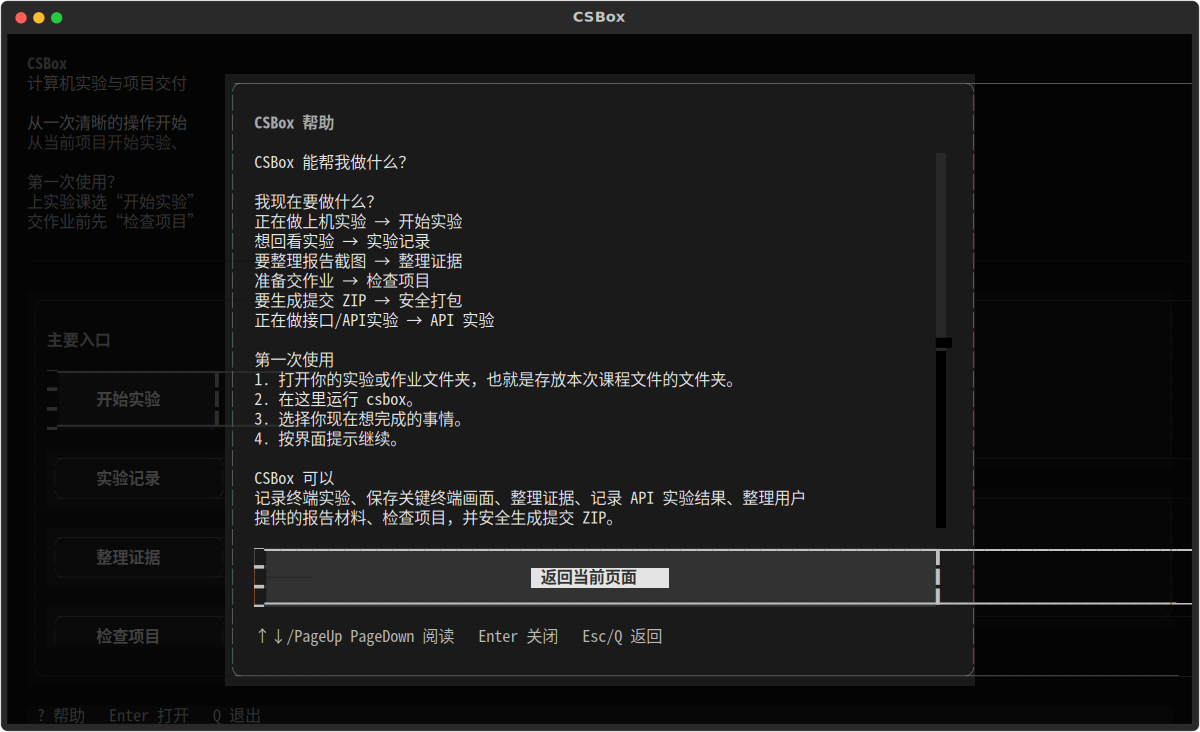
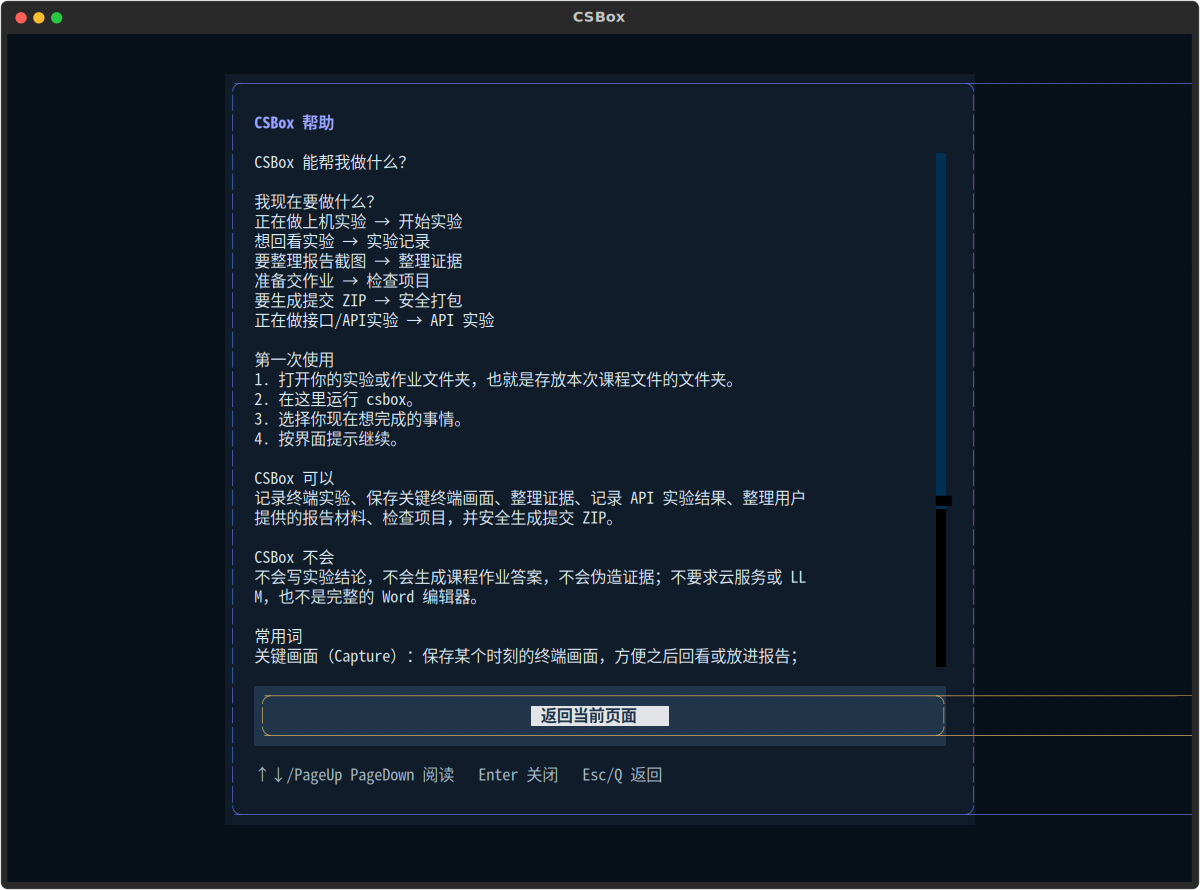
publish: fix: polish TUI help and README screenshots

diff --git a/docs/tests/tooling/generate_readme_screenshots.py b/docs/tests/tooling/generate_readme_screenshots.py
@@ -8,7 +8,9 @@ from __future__ import annotations
 
 import asyncio
 import json
+import os
 import tempfile
+from contextlib import contextmanager
 from dataclasses import replace
 from datetime import UTC, datetime
 from pathlib import Path
@@ -25,6 +27,22 @@ from csbox.tui.screens.review import ReviewController
 
 ROOT = Path(__file__).resolve().parents[3]
 OUTPUT = ROOT / "docs" / "assets" / "readme"
+HOME_SIZE = (120, 43)
+REVIEW_SIZE = (120, 35)
+
+
+@contextmanager
+def screenshot_color_environment():
+    """Keep terminal-only NO_COLOR settings out of public screenshot assets."""
+
+    previous = os.environ.pop("NO_COLOR", None)
+    try:
+        yield
+    finally:
+        if previous is None:
+            os.environ.pop("NO_COLOR", None)
+        else:
+            os.environ["NO_COLOR"] = previous
 
 
 class DemoHomeDataSource(FakeHomeDataSource):
@@ -49,7 +67,7 @@ def environment() -> EnvironmentSnapshot:
         powershell_7_available=False,
         is_wsl=False,
         terminal_columns=120,
-        terminal_rows=35,
+        terminal_rows=HOME_SIZE[1],
     )
 
 
@@ -60,7 +78,17 @@ def make_review_session(root: Path) -> SessionPaths:
         "\n".join(
             [
                 json.dumps({"version": 3, "term": {"cols": 48, "rows": 8}}),
-                json.dumps([0.2, "o", "课程项目实验\r\n$ python check.py\r\nPASS: 3 checks\r\n"]),
+                json.dumps(
+                    [
+                        0.2,
+                        "o",
+                        "课程项目实验\r\n"
+                        "$ python check.py\r\n"
+                        "checking files...\r\n"
+                        "checking captures...\r\n"
+                        "PASS: 3 checks\r\n",
+                    ]
+                ),
                 json.dumps([0.8, "o", "$ echo 关键画面已保存\r\n关键画面已保存\r\n"]),
                 json.dumps([0.5, "o", "$ exit\r\n"]),
                 json.dumps([0.5, "x", "0"]),
@@ -83,7 +111,7 @@ def make_review_session(root: Path) -> SessionPaths:
                 "initialRows": 8,
                 "initialColumns": 48,
                 "cwd": "/tmp/csbox-readme-demo/课程项目",
-                "csboxVersion": "0.5.0rc1",
+                "csboxVersion": "0.5.1",
             }
         ),
         encoding="utf-8",
@@ -149,14 +177,17 @@ def write_png(app: CSBoxApp | ReviewApp, destination: Path) -> None:
 async def render() -> None:
     OUTPUT.mkdir(parents=True, exist_ok=True)
     locale = load_locale()
-    with tempfile.TemporaryDirectory(prefix="csbox-readme-demo-") as temporary:
+    with (
+        screenshot_color_environment(),
+        tempfile.TemporaryDirectory(prefix="csbox-readme-demo-") as temporary,
+    ):
         fixture_root = Path(temporary)
         home = CSBoxApp(
             data_source=DemoHomeDataSource(),
             environment=environment(),
             locale=locale,
         )
-        async with home.run_test(size=(120, 35)) as pilot:
+        async with home.run_test(size=HOME_SIZE) as pilot:
             await pilot.pause()
             write_png(home, OUTPUT / "home.png")
             await pilot.press("?")
@@ -167,7 +198,7 @@ async def render() -> None:
             controller=ReviewController.from_session(make_review_session(fixture_root)),
             locale=locale,
         )
-        async with review.run_test(size=(120, 35)) as pilot:
+        async with review.run_test(size=REVIEW_SIZE) as pilot:
             await pilot.pause()
             await pilot.press("right")
             await pilot.pause()

diff --git a/tests/test_installation_ux.py b/tests/test_installation_ux.py
@@ -9,7 +9,7 @@ def test_readme_leads_with_beginner_first_story() -> None:
     readme = (PROJECT_ROOT / "README.md").read_text(encoding="utf-8")
     quick_start = readme[readme.index("## Quick Start") : readme.index("## See the current UI")]
 
-    assert "0.5.0rc1" in readme
+    assert "0.5.1" in readme
     assert "not on PyPI" in readme
     assert "git clone" in readme
     assert (
@@ -62,14 +62,14 @@ def test_both_readmes_keep_the_beginner_boundaries() -> None:
         assert "F12" in readme
         assert "Check" in readme
         assert "Pack" in readme
-        assert "0.5.0rc1" in readme
+        assert "0.5.1" in readme
     assert "不生成结论、答案或课程作业正文" in chinese
 
 
 def test_changelog_leads_with_the_current_v05_surface() -> None:
     changelog = (PROJECT_ROOT / "CHANGELOG.md").read_text(encoding="utf-8")
 
-    assert changelog.startswith("# Changelog\n\n## 0.5.0rc1")
-    assert "当前 Release Candidate 尚未发布到 PyPI" in changelog
+    assert changelog.startswith("# Changelog\n\n## 0.5.1")
+    assert "This version is not published to PyPI" in changelog
     for surface in ("Lab Evidence", "API Evidence", "Evidence Collection", "Report Handoff"):
         assert surface in changelog

diff --git a/tests/test_readme_screenshots.py b/tests/test_readme_screenshots.py
@@ -1,0 +1,36 @@
+from __future__ import annotations
+
+import importlib.util
+import os
+import sys
+from pathlib import Path
+
+from csbox.locales import load_locale
+from csbox.tui.app import CSBoxApp
+
+_TOOL_PATH = (
+    Path(__file__).resolve().parents[1]
+    / "docs"
+    / "tests"
+    / "tooling"
+    / "generate_readme_screenshots.py"
+)
+_SPEC = importlib.util.spec_from_file_location("csbox_readme_screenshots", _TOOL_PATH)
+assert _SPEC is not None and _SPEC.loader is not None
+_TOOL = importlib.util.module_from_spec(_SPEC)
+sys.modules[_SPEC.name] = _TOOL
+_SPEC.loader.exec_module(_TOOL)
+
+
+def test_readme_screenshot_color_environment_overrides_no_color(monkeypatch) -> None:
+    monkeypatch.setenv("NO_COLOR", "1")
+
+    with _TOOL.screenshot_color_environment():
+        app = CSBoxApp(
+            data_source=_TOOL.DemoHomeDataSource(),
+            environment=_TOOL.environment(),
+            locale=load_locale(),
+        )
+        assert app.no_color is False
+
+    assert os.environ["NO_COLOR"] == "1"

diff --git a/tests/test_tui_help.py b/tests/test_tui_help.py
@@ -188,6 +188,24 @@ async def test_home_question_mark_opens_scrollable_beginner_help_and_restores_fo
 
 
 @pytest.mark.asyncio
+async def test_help_backdrop_hides_underlying_panel_borders() -> None:
+    app = _app()
+
+    async with app.run_test(size=(120, 35)) as pilot:
+        await pilot.pause()
+        await pilot.press("?")
+        await pilot.pause()
+
+        assert app.screen.styles.background.a == 1
+        layout = app.screen._compositor.render_update(
+            full=True,
+            screen_stack=app._background_screens,
+            simplify=False,
+        )
+        assert all("─" not in strip.text[98:118] for strip in layout.strips)
+
+
+@pytest.mark.asyncio
 async def test_f1_is_a_help_alias_and_contextual_help_explains_lab_records() -> None:
     app = _app()
 

diff --git a/tests/test_pack_tui.py b/tests/test_pack_tui.py
@@ -525,7 +525,9 @@ async def test_source_plan_change_does_not_open_overwrite_recovery_loop(tmp_path
         await pilot.pause()
         await pilot.click("#pack-confirm")
         await _wait_until(pilot, lambda: _pack_overwrite_dialog_ready(app))
-        await pilot.click("#pack-overwrite-confirm")
+        overwrite_button = app.screen.query_one("#pack-overwrite-confirm", Button)
+        overwrite_button.focus()
+        await pilot.press("enter")
         await _wait_until(pilot, lambda: bool(calls))
         await _wait_until(pilot, lambda: isinstance(app.screen, PackConfirmationScreen))
 

diff --git a/tests/test_versioning.py b/tests/test_versioning.py
@@ -8,11 +8,11 @@ from csbox.cli.main import app
 
 def test_version_is_single_runtime_source() -> None:
     assert __version__ == version("csbox")
-    assert __version__ == "0.5.0rc1"
+    assert __version__ == "0.5.1"
 
 
 def test_cli_version_prints_runtime_version() -> None:
     result = CliRunner().invoke(app, ["--version"])
 
     assert result.exit_code == 0
-    assert result.stdout.strip() == "0.5.0rc1"
+    assert result.stdout.strip() == "0.5.1"

diff --git a/tests/test_distribution.py b/tests/test_distribution.py
@@ -417,4 +417,4 @@ def test_uv_tool_install_runs_built_wheel_outside_repository(tmp_path: Path) -> 
         text=True,
         encoding="utf-8",
     )
-    assert result.stdout.strip() == "0.5.0rc1"
+    assert result.stdout.strip() == "0.5.1"

diff --git a/src/csbox/__init__.py b/src/csbox/__init__.py
@@ -5,6 +5,6 @@ from importlib.metadata import PackageNotFoundError, version
 try:
     __version__ = version("csbox")
 except PackageNotFoundError:
-    __version__ = "0.5.0rc1"
+    __version__ = "0.5.1"
 
 __all__ = ["__version__"]

diff --git a/README.md b/README.md
@@ -8,9 +8,9 @@ Record terminal work, keep evidence reviewable, and hand in a checked project bu
 
 [English](README.md) · [简体中文](README.zh-CN.md)
 
-[![CI](https://img.shields.io/github/actions/workflow/status/sfwang3/CSBox/ci.yml?branch=main&style=flat-square&label=CI)](https://github.com/sfwang3/CSBox/actions/workflows/ci.yml) [![Python 3.11+](https://img.shields.io/badge/python-3.11%2B-3776AB?style=flat-square&logo=python&logoColor=white)](https://www.python.org/) [![Apache-2.0](https://img.shields.io/badge/license-Apache--2.0-2ea44f?style=flat-square)](LICENSE) [![0.5.0rc1](https://img.shields.io/badge/version-0.5.0rc1-informational?style=flat-square)](CHANGELOG.md)
+[![CI](https://img.shields.io/github/actions/workflow/status/sfwang3/CSBox/ci.yml?branch=main&style=flat-square&label=CI)](https://github.com/sfwang3/CSBox/actions/workflows/ci.yml) [![Python 3.11+](https://img.shields.io/badge/python-3.11%2B-3776AB?style=flat-square&logo=python&logoColor=white)](https://www.python.org/) [![Apache-2.0](https://img.shields.io/badge/license-Apache--2.0-2ea44f?style=flat-square)](LICENSE) [![0.5.1](https://img.shields.io/badge/version-0.5.1-informational?style=flat-square)](CHANGELOG.md)
 
-**0.5.0rc1 · release candidate · not published to PyPI**
+**0.5.1 · not published to PyPI**
 
 </div>
 
@@ -43,19 +43,19 @@ On Home, use <kbd>↑</kbd>/<kbd>↓</kbd> or <kbd>Tab</kbd> to move, press <kbd
 
 ### Installation: what works today
 
-This release candidate is **not on PyPI**. There is no public-index install command yet.
+This release is **not on PyPI**. There is no public-index install command yet.
 
 #### Ordinary users: install a local wheel
 
-If a course staff member or project maintainer gives you a `csbox-0.5.0rc1-py3-none-any.whl` file, install that local file with `uv`:
+If a course staff member or project maintainer gives you a `csbox-0.5.1-py3-none-any.whl` file, install that local file with `uv`:
 
 ```bash
-uv tool install /path/to/csbox-0.5.0rc1-py3-none-any.whl
+uv tool install /path/to/csbox-0.5.1-py3-none-any.whl
 cd path/to/your-course-project
 csbox
 ```
 
-The candidate is not publicly published yet. If you do not have a local wheel or source checkout, there is no ordinary-user install route to copy today.
+This version is not publicly published yet. If you do not have a local wheel or source checkout, there is no ordinary-user install route to copy today.
 
 #### Contributors: run from a source checkout
 
@@ -80,16 +80,46 @@ For diagnostics, `csbox --help`, `csbox --version`, and `csbox doctor` are avail
 
 ```console
 $ csbox --version
-0.5.0rc1
+0.5.1
 ```
 
 ## See the current UI
 
-These are current Textual renders from deterministic synthetic fixtures, not concept art or mockups.
+The screenshots below follow the beginner path: start from Home, record work in a real terminal, and then review a saved result. They are current Textual renders from deterministic synthetic fixtures—not concept art or mockups.
 
-| Home | Global help | Review |
-| --- | --- | --- |
-| [![Home](docs/assets/readme/home.png)](docs/assets/readme/home.png) | [![Help](docs/assets/readme/help.png)](docs/assets/readme/help.png) | [![Review](docs/assets/readme/review.png)](docs/assets/readme/review.png) |
+### 1. Start at Home
+
+Home is where you choose what you are doing now: start a lab, revisit a record, organize evidence, run an API experiment, check a project, or prepare a ZIP.
+
+<p align="center">
+  <a href="docs/assets/readme/home.png">
+    <img src="docs/assets/readme/home.png" alt="CSBox Home showing the main task entry points" width="100%">
+  </a>
+</p>
+
+### 2. Review a saved result
+
+Review replays an ended terminal session and lets you add named Captures at the moments you need. The saved result can then continue into evidence and report materials.
+
+<p align="center">
+  <a href="docs/assets/readme/review.png">
+    <img src="docs/assets/readme/review.png" alt="CSBox Review showing a replayable session and named Captures" width="100%">
+  </a>
+</p>
+
+### Need the global help?
+
+Press <kbd>?</kbd> or <kbd>F1</kbd> from Home to open the scrollable product map. It explains which entry to choose and what CSBox does; because it is a dense reference page, it is kept as a supplementary view below.
+
+<details>
+<summary>Open the full Global Help screenshot</summary>
+
+<p align="center">
+  <a href="docs/assets/readme/help.png">
+    <img src="docs/assets/readme/help.png" alt="CSBox Global Help dialog with the beginner product map" width="100%">
+  </a>
+</p>
+</details>
 
 Regenerate them with `uv run --with cairosvg python docs/tests/tooling/generate_readme_screenshots.py`.
 

diff --git a/docs/ARCHITECTURE.md b/docs/ARCHITECTURE.md
@@ -54,6 +54,6 @@ Unix backend 使用真实 PTY，支持初始尺寸、resize、Ctrl+C、EOF 和 c
 
 ## Distribution 与安装态
 
-项目使用 Hatchling 的 `src/csbox` package layout。wheel 只包含运行时 Python package、locale JSON、Textual TCSS 和 distribution metadata；sdist 只保留公开 README、许可证、用户文档、`src/csbox` 与构建所需配置，不包含测试、参考图片或内部开发资料。版本由 distribution metadata 提供给运行时，`csbox --version`、session/manifest 字段和 wheel metadata 使用同一个 `0.5.0rc1` 版本。
+项目使用 Hatchling 的 `src/csbox` package layout。wheel 只包含运行时 Python package、locale JSON、Textual TCSS 和 distribution metadata；sdist 只保留公开 README、许可证、用户文档、`src/csbox` 与构建所需配置，不包含测试、参考图片或内部开发资料。版本由 distribution metadata 提供给运行时，`csbox --version`、session/manifest 字段和 wheel metadata 使用同一个 `0.5.1` 版本。
 
 安装后的入口是 `csbox` console script。用户可以用普通 venv 或 `uv tool install <wheel>` 安装，再从项目目录之外运行 `csbox --help`、`doctor`、`check` 和 `pack`；locale、TCSS 与 renderer 通过 package/resource 或系统字体查找，不依赖当前 Git checkout。

diff --git a/CHANGELOG.md b/CHANGELOG.md
@@ -1,5 +1,16 @@
 # Changelog
 
+## 0.5.1
+
+- **Lab & Review:** record a continuous terminal session, capture point-in-time evidence with F12, and review, edit, delete, or export completed records.
+- **Evidence & Reports:** organize canonical Capture sources into Evidence Sets and export user-provided material as Markdown, DOCX, and image assets without generating coursework.
+- **Check & Safe Pack:** inspect project structure and delivery risks, keep WARN findings visible and non-blocking, and build verified ZIPs with fail-closed inventory and ownership protections.
+- **Beginner TUI & Help:** make Home, Help, Lab, Records, Evidence, Check, Pack, Report, and API workflows discoverable with consistent terminology and keyboard guidance.
+- **Documentation & Installation:** provide aligned English and Simplified Chinese guidance, current UI screenshots, and installable wheel/sdist artifacts for Python 3.11+.
+- **Windows / Reliability:** validate the supported Windows terminal, PowerShell, ConPTY, CJK layout, and cross-platform packaging paths in automated CI.
+
+This version is not published to PyPI.
+
 ## 0.5.0rc1
 
 - 完成 Lab Evidence、API Evidence、Project Check 和 Safe Pack 四条基础交付工作流。
